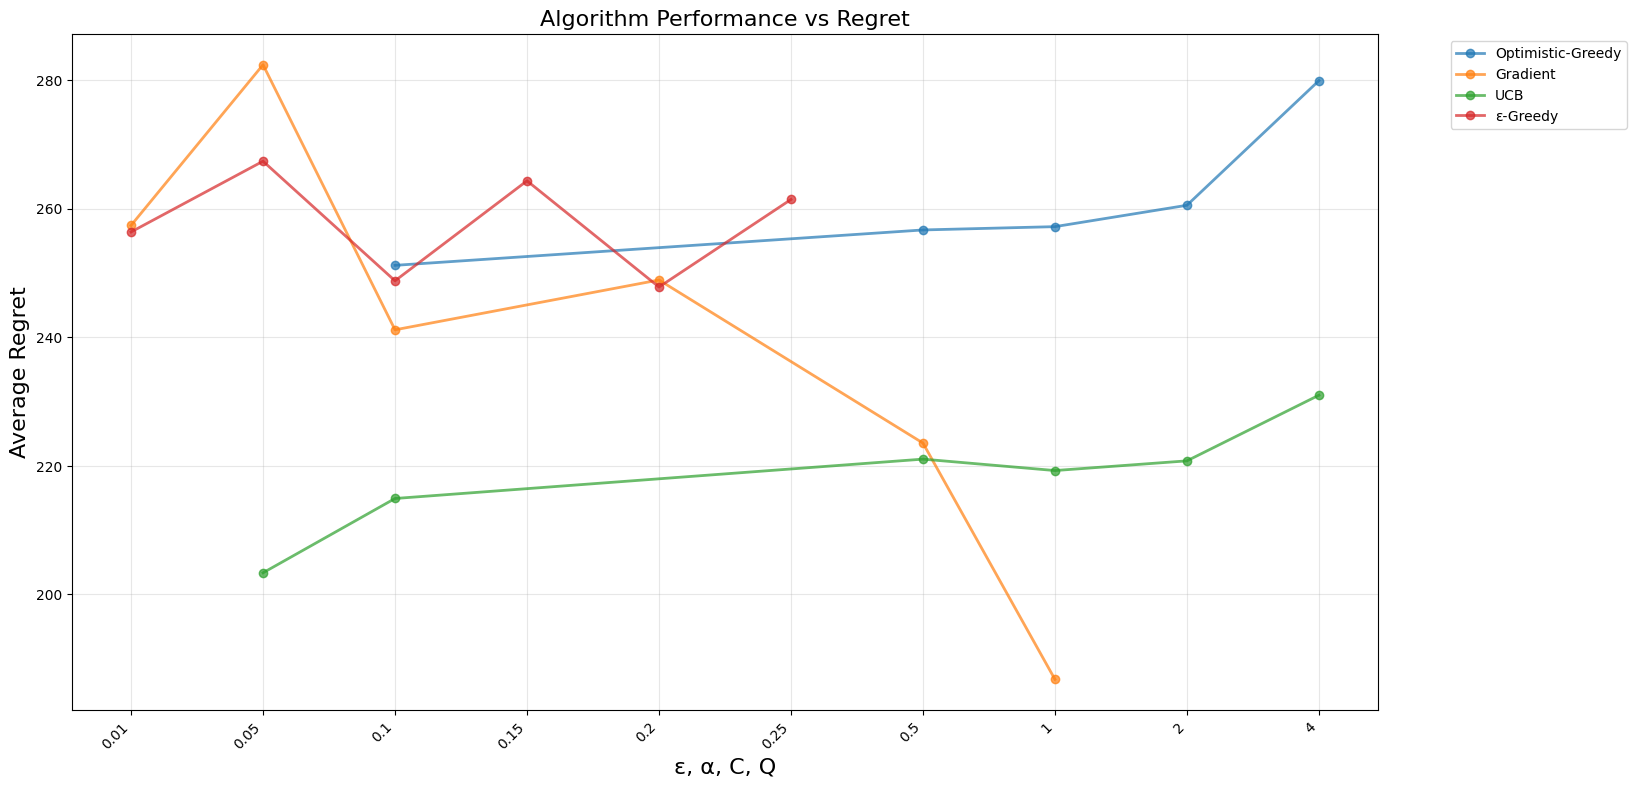
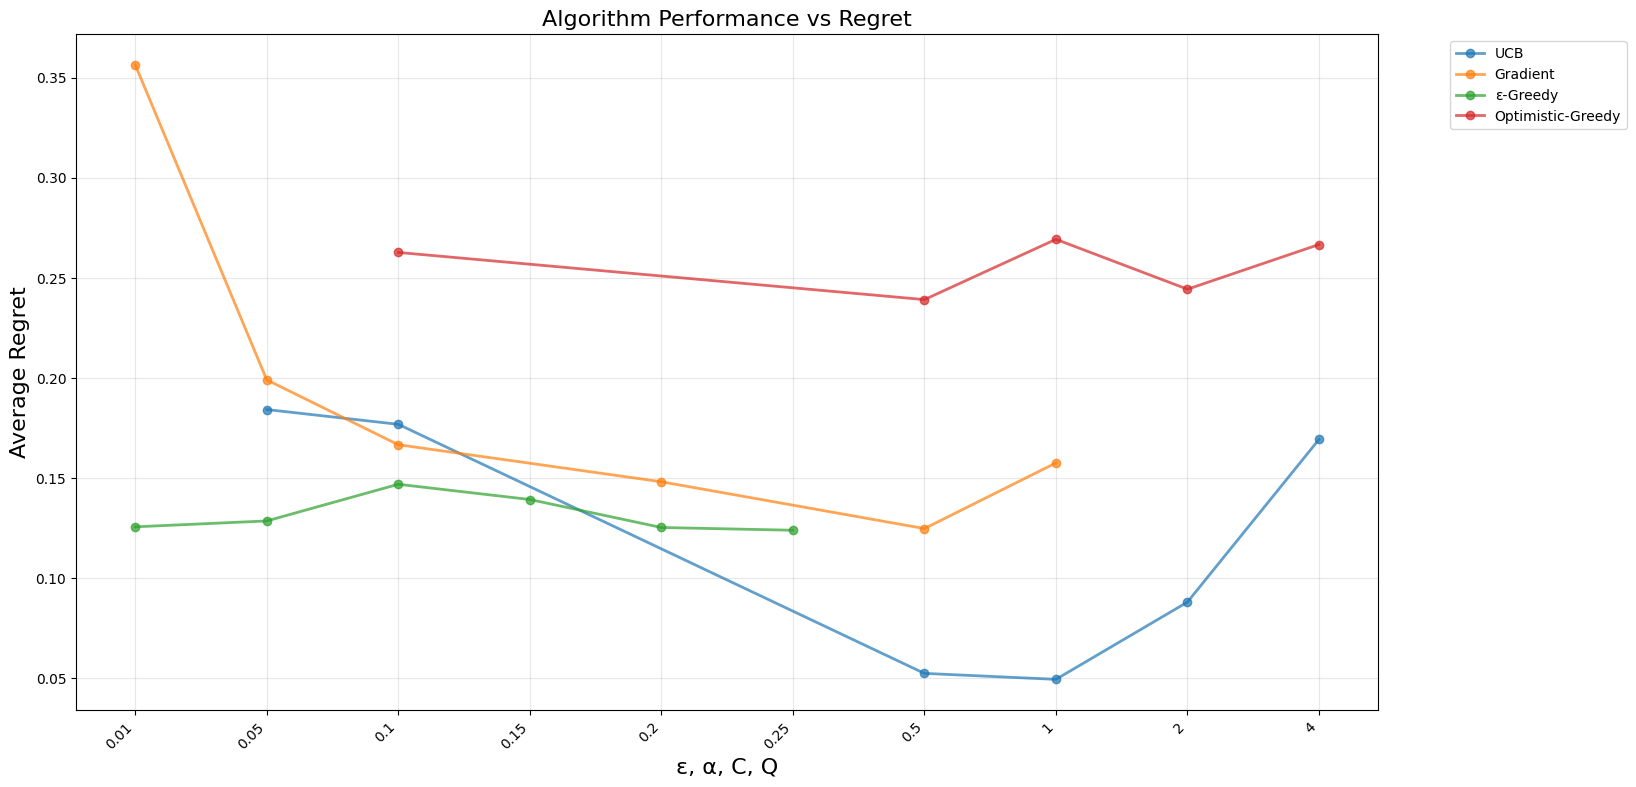
fix non-stationary bandits by changing probabilities

diff --git a/lab1/non_stationary_bandits.py b/lab1/non_stationary_bandits.py
@@ -18,6 +18,10 @@ class KArmedBandit(Protocol):
     def reward(self, arm: str) -> float:
         raise NotImplementedError
 
+    @abstractmethod
+    def best_pick_reward(self):
+        pass
+
 
 class BanditLearner(Protocol):
     name: str
@@ -45,12 +49,14 @@ class BanditProblem:
 
     def run(self) -> list[float]:
         rewards = []
+        best_pick_rewards = []
         for _ in range(self.time_steps):
             arm = self.learner.pick_arm()
             reward = self.bandit.reward(arm)
             self.learner.acknowledge_reward(arm, reward)
             rewards.append(reward)
-        return rewards
+            best_pick_rewards.append(self.bandit.best_pick_reward())
+        return rewards, best_pick_rewards
 
 
 POTENTIAL_HITS = {
@@ -71,7 +77,16 @@ class TopHitBandit(KArmedBandit):
 
     def reward(self, arm: str) -> float:
         thumb_up_probability = self.potential_hits[arm]
+
+        # each time we draw a reward, change the likelyhood of a thumb up
+        # to make the problem non-stationary
+        for hit in self.potential_hits:
+            self.potential_hits[hit] += np.random.normal(0, 0.1, 1)
+
         return 1.0 if random.random() <= thumb_up_probability else 0.0
+
+    def best_pick_reward(self):
+        return 1.0 if random.random() <= max(self.potential_hits.values()) else 0.0
 
 
 class RandomLearner(BanditLearner):
@@ -115,10 +130,6 @@ class ExploreThenCommitLearner(BanditLearner):
 
     def acknowledge_reward(self, arm: str, reward: float) -> None:
         self.arms_stats[arm] += reward
-
-        # modify probability each time to make the problem nonstationary
-        for arm in self.arms_stats:
-            self.arms_stats[arm] += np.random.normal(0, 1, 1)
 
 
 class UpperConfidenceBoundLearner(BanditLearner):
@@ -165,27 +176,14 @@ class UpperConfidenceBoundLearner(BanditLearner):
                     self.c * np.sqrt(np.log(self.time_step) / self.arms_pulls[arm])
                 )
 
-        # modify probability each time to make the problem nonstationary
-        for arm in self.arms_ubc:
-            self.arms_ubc[arm] += np.random.normal(0, 1, 1)
-
 
 class GreedyLearner(BanditLearner):
-    """This time greedy will utilise exponenstial recency-weighted average with learning rate"""
-
-    def __init__(
-        self,
-        strategy=None,
-        learning_rate: float = 0.1,
-        Q: float = None,
-        epsilon: float = None,
-    ):
+    def __init__(self, strategy=None, Q=None, epsilon=None):
         self.color = "purple"
         self.arms: list[str] = []
         self.time_step = 0
         self.k_arms: int = None
         self.arms_stats: dict[dict[int, int]] = {}
-        self.learning_rate = learning_rate
 
         if not strategy:
             self.strategy = random.choice(["Greedy", "ε-Greedy", "Optimistic-Greedy"])
@@ -245,14 +243,10 @@ class GreedyLearner(BanditLearner):
                 )
 
     def acknowledge_reward(self, arm: str, reward: float) -> None:
-        """exponential recency-weighted average"""
-        self.arms_stats[arm]["mean"] += self.learning_rate * (
+        self.arms_stats[arm]["n_pulls"] += 1
+        self.arms_stats[arm]["mean"] += (1 / self.arms_stats[arm]["n_pulls"]) * (
             reward - self.arms_stats[arm]["mean"]
         )
-
-        # modify probability each time to make the problem nonstationary
-        for arm in self.arms_stats:
-            self.arms_stats[arm]["mean"] += np.random.normal(0, 1, 1)
 
 
 class GradientLearner(BanditLearner):
@@ -300,10 +294,6 @@ class GradientLearner(BanditLearner):
                     self.alpha * (reward - self.reward_baseline) * probabilities[i]
                 )
 
-        # modify probability each time to make the problem nonstationary
-        for arm in self.preferences:
-            self.preferences[arm] += np.random.normal(0, 1)
-
 
 class ThompsonLearner(BanditLearner):
     def __init__(self):
@@ -331,19 +321,6 @@ class ThompsonLearner(BanditLearner):
         self.arms_stats[arm]["a"] += reward
         self.arms_stats[arm]["b"] += 1 - reward
 
-        # modify probability each time to make the problem nonstationary
-        # ensure a and b are >= 1
-
-        for arm in self.arms_stats:
-            self.arms_stats[arm]["a"] = max(
-                self.arms_stats[arm]["a"],
-                self.arms_stats[arm]["a"] + np.random.normal(0, 1, 1),
-            )
-            self.arms_stats[arm]["b"] = max(
-                self.arms_stats[arm]["b"],
-                self.arms_stats[arm]["b"] + np.random.normal(0, 1, 1),
-            )
-
 
 TIME_STEPS = 5000
 TRIALS_PER_LEARNER = 200
@@ -354,7 +331,7 @@ def evaluate_learner(learner: BanditLearner) -> None:
     for _ in range(TRIALS_PER_LEARNER):
         bandit = TopHitBandit(POTENTIAL_HITS)
         problem = BanditProblem(time_steps=TIME_STEPS, bandit=bandit, learner=learner)
-        rewards = problem.run()
+        rewards, best_pick_rewards = problem.run()
         accumulated_rewards = list(accumulate(rewards))
         runs_results.append(accumulated_rewards)
 

diff --git a/lab1/test_non_stationary_bandits.py b/lab1/test_non_stationary_bandits.py
@@ -89,14 +89,14 @@ def test_bandit_learner(learner_name, learner_class, param_dict, store_results):
     for n in range(num_runs):
         potential_hits = generate_potential_hits()
         bandit = TopHitBandit(potential_hits)
-        optimal_prob = max(potential_hits.values())
 
         learner = learner_class(**param_dict)
         problem = BanditProblem(time_steps, bandit, learner)
-        rewards = problem.run()
+        rewards, best_pick_rewards = problem.run()
 
         rewards = np.array(rewards)
-        regret = (optimal_prob * time_steps) - np.sum(rewards)
+        best_pick_rewards = np.array(best_pick_rewards)
+        regret = (np.sum(best_pick_rewards) - np.sum(rewards)) / time_steps
 
         average_reward += (1 / (n + 1)) * (np.mean(rewards) - average_reward)
         average_regret += (1 / (n + 1)) * (np.mean(regret) - average_regret)
